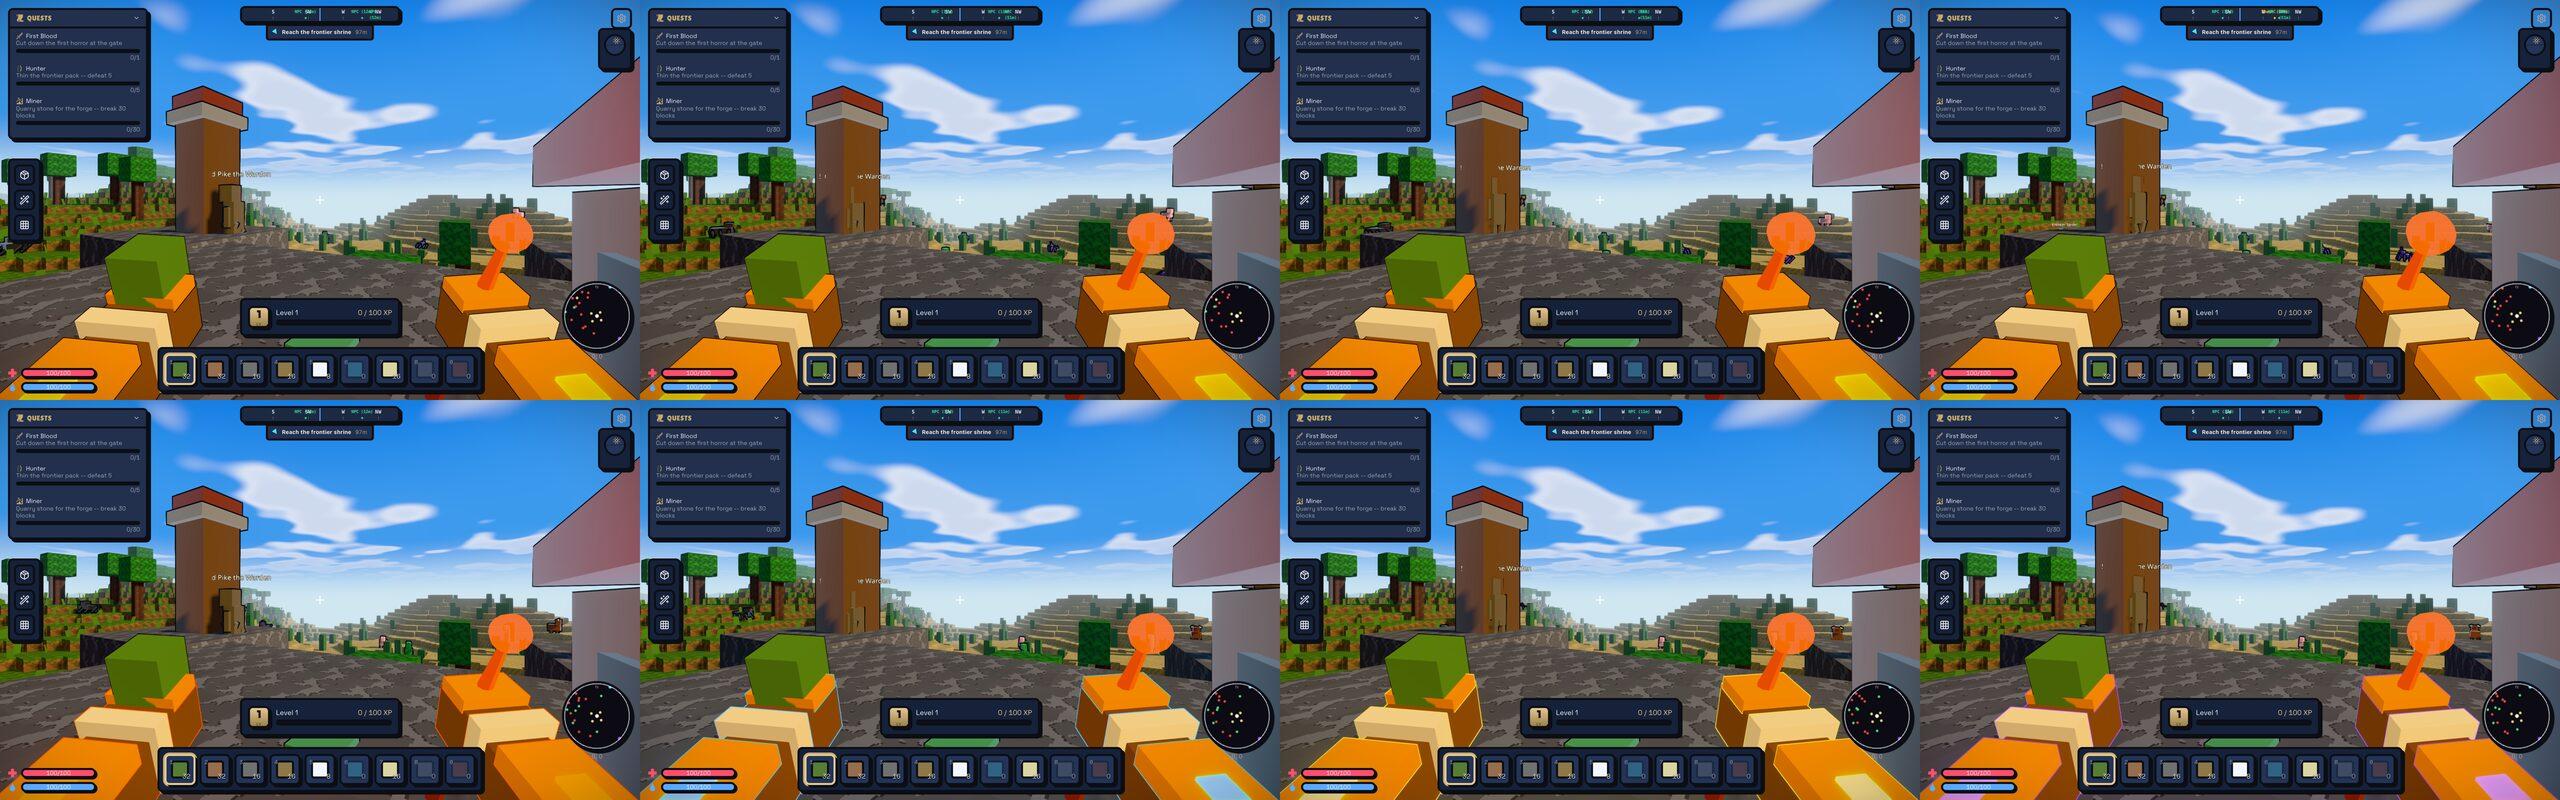
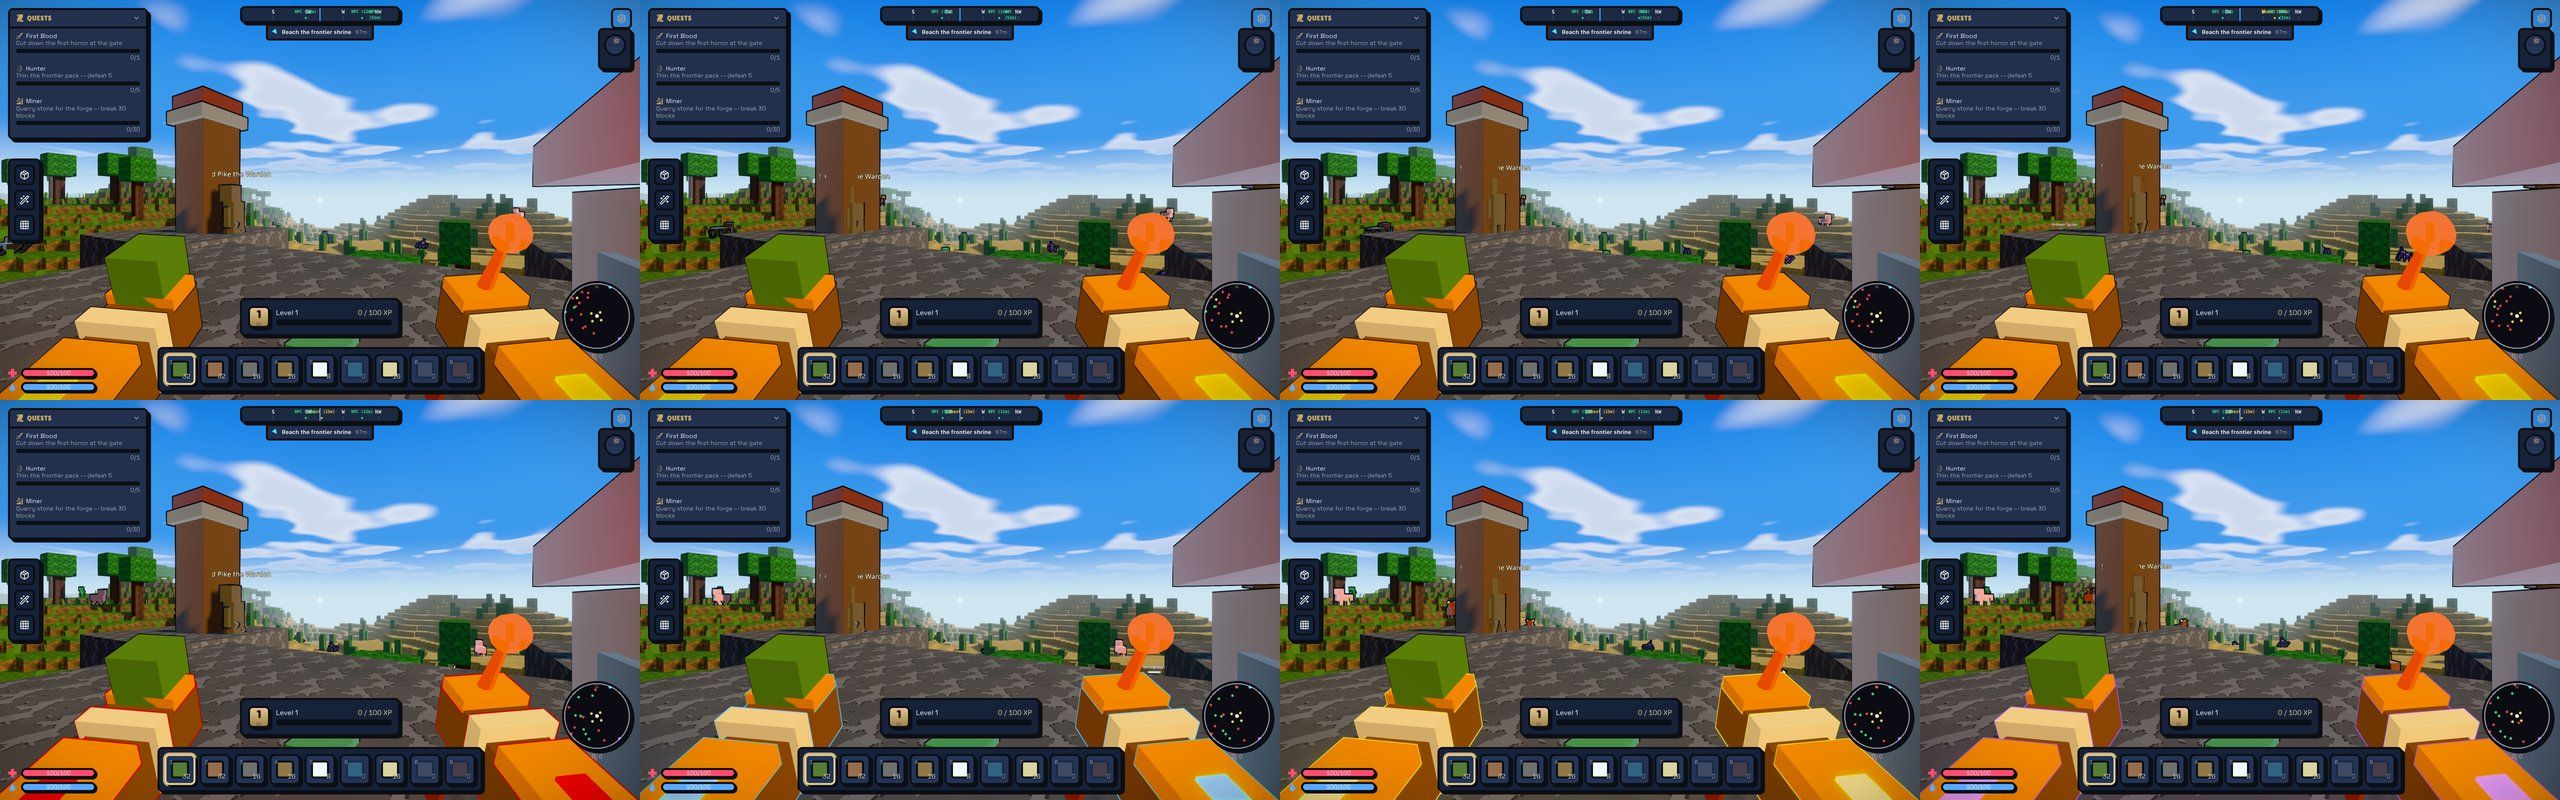
docs(evidence, decisions): the crimson fire form on the gauntlets, before and after at 0.30; item 87 with the numbers
One lookbook self-set run under the shared GPU lock (22:32Z, load 4.9, Chromium on ANGLE-Metal at 1280x800), on a
production build of 46010095. Before is 7c3cffef's frame of the dragon at 0.30 from the fix round's run (21:32Z, the
same instrument and stand; 7c3cffef..a4fef819 is docs only, so it is this branch's render before 46010095). The bull,
hawk and golem tiles of the new run match 7c3cffef's to JPEG noise (mean absolute difference 2.6 to 2.7 of 255).

gauntlet-fire-colour-before-after.jpg (new): the dragon's left and right gauntlets, orange above, crimson below.
gauntlet-form-colour-before-after.jpg and -crops.jpg: the after row is now this run's (the crops sheet at its original
geometry, the before row unchanged). Item 87 states fire's colour, why, and the numbers authored and rendered, the
hawk's core near the ember core as displayed, and the gate's new case; index.md names the frames.

diff --git a/docs/superpowers/DECISIONS.md b/docs/superpowers/DECISIONS.md
@@ -36,7 +36,8 @@ Frames: `docs/superpowers/masterpiece-2026-10/evidence/w2e-follow/` (`index.md` 
    still casts its shadow. First person is the follow placing the camera, marked by the Player's loop each frame
    (`render/followView.js`), not the drawn camera standing near the eye: a crit's shake (weight 1.6, trauma 0.8) puts
    the follow's target a median 1.5 m off the eye and, after the follow's 0.85 lerp, the camera outside 1 m on three
-   crits in four (2000 seeds), and a rule of 1 m from the eye let the boxes flash back in during fights. When another branch placed the camera (the reveal's ends, an eye pose), it is first person within 1 m of the
+   crits in four (2000 seeds), and a rule of 1 m from the eye let the boxes flash back in during fights. When another
+   branch placed the camera (the reveal's ends, an eye pose), it is first person within 1 m of the
    steady eye (`beastAvatarParts.js FIRST_PERSON_M`; the reveal leaves it in its first fifth), measured in world space,
    and the clearance is in metres: on a form's first frames the entrance draws the avatar at half scale. The eye stays
    at body + `EYE_HEIGHT_M` in every form: a per-form eye would put the dragon's 2.15 m up, inside the ceiling of a
@@ -124,19 +125,28 @@ Frames: `docs/superpowers/masterpiece-2026-10/evidence/w2e-follow/` (`index.md` 
    exact). It stands while it earns its place.
 87. **The gauntlets take the beast form's colour while it is on** (`render/viewmodel.js stepFormTint`, `FORM_TINT`,
    driven per frame by `render/playerRender.jsx`): as the beast is a dark ink body with an element rim, the gauntlets'
-   ink outlines take the form's element glow (`beastAvatarParts.js ELEMENT_COLOR`, the beast's own rim), and so does the
-   ember core in each, at the core's HDR gain, eased in by the end of the form's 0.55 s entrance and out after it, the
-   fading form keeping its colour until it has gone; the held item's outline stays ink. It answers item 80's loss: in
-   first person the beast draws nothing, and now the hands say which form is on. Frames
-   (`evidence/w2e-follow/gauntlet-form-colour-*.jpg`, 0.30): the rims read orange-red, cyan, yellow and violet round both
-   gauntlets. Two arms were shot and dropped: 0.35 of the glow on the plates read salmon for the bull and pink for the
-   golem on their ember gold (`gauntlet-plate-glow-rejected.jpg`), and the core alone shows only a sliver at rest, which
-   read for the bull and the golem and not for the hawk or the dragon. Also passed over: a beast viewmodel (claws in place
+   ink outlines take the form's colour (`FORM_TINT.colour`: the beast's own rim, `beastAvatarParts.js ELEMENT_COLOR`, for
+   the bull, the hawk and the golem), and so does the ember core in each, at the core's HDR gain, eased in by the end of
+   the form's 0.55 s entrance and out after it, the fading form keeping its colour until it has gone; the held item's
+   outline stays ink. It answers item 80's loss: in first person the beast draws nothing, and now the hands say which
+   form is on. Fire takes a crimson, `#D4142C`, on the hands only: the beast's orange `#FF6A2C` stands 24 degrees of OKLCH
+   hue and 0.04 of lightness off the plates (`#E8963A`) and 21 degrees and 0.07 off the ember core (`#FF9A2E`), and in the
+   frames its rim was a 1-2 px orange-red line on orange and its core sat in the plates' orange; the crimson stands 41
+   degrees and 0.19 under the plates and 38 degrees and 0.22 under the ember core (authored), and against the lit plate
+   as rendered (`#D26B00`) the rim moved from OKLab 0.065 off to 0.131 and the core from 0.091 to 0.133
+   (`gauntlet-fire-colour-before-after.jpg`). Frames (`evidence/w2e-follow/gauntlet-form-colour-*.jpg`, 0.30): the rims
+   read crimson, cyan, yellow and violet round both gauntlets. As displayed, the hawk's core stands 0.04 to 0.07 (OKLab) off
+   the ember core (both go yellow-white through the core's HDR gain and NEUTRAL), so its rim carries it. Two arms were shot and
+   dropped: 0.35 of the glow on the plates read salmon for the bull and pink for the golem on their ember gold
+   (`gauntlet-plate-glow-rejected.jpg`), and the core alone shows only a sliver at rest, which read for the bull and the
+   golem and not for the hawk or the dragon. Also passed over: a beast viewmodel (claws in place
    of the gauntlets: four new hand models) and the core's own light on the hands (it bleached them at 0.6 m). drei's
    Outlines writes the ink back whenever the hands re-render (an attack starting does it); the tint writes the colour
    again every frame callback, ahead of that frame's draw (not measured in a browser). Gated by
-   `tests/gates/form-gauntlet-gates.test.jsx`, with drei's real Outlines.
-   It stands while it earns its place.
+   `tests/gates/form-gauntlet-gates.test.jsx`, with drei's real Outlines, and each form's outline and core standing 0.15
+   (OKLab) off the plate as displayed at 0.30 and 0.75 (the fire rim that did not read stood 0.10 to 0.11 off, the hawk's
+   that did 0.15), fire 30 degrees of hue and 0.1 of lightness off the plates and the ember core. It stands while it
+   earns its place.
 88. **Per-frame code is gated for allocation by a young-generation heap probe** (`tests/gates/_youngGrowth.js`,
    `tests/gates/hot-path-alloc-gates.test.js`): new-space growth over runs of 5000 calls that no collection interrupted
    (`node:v8` GCProfiler), with no fixed warm-up: runs continue until the median of the last five kept runs is under

diff --git a/docs/superpowers/masterpiece-2026-10/evidence/w2e-follow/index.md b/docs/superpowers/masterpiece-2026-10/evidence/w2e-follow/index.md
@@ -19,10 +19,13 @@ whole frame unless named a crop. DECISIONS 2026-10-29 items 80-86.
 ## PR #52 fix round: the beast form's colour on the gauntlets (DECISIONS 2026-10-29 item 87)
 
 Shot on 2026-10-29 after 21:00Z by the `self` set, Chromium on ANGLE-Metal (Apple M3 Max) at 1280x800, device scale 2,
-each form at the steady eye at 0.30. Before = a production build of `ec0394ce` (no form colour); after = `7c3cffef`.
+each form at the steady eye at 0.30. Before = a production build of `ec0394ce` (no form colour); after = `7c3cffef`,
+whose dragon rim read as a thin orange-red line on the orange plates, so the after row is now the crimson fire build
+(`46010095`, shot at 22:32Z; the bull, hawk and golem tiles match `7c3cffef`'s to JPEG noise).
 
 | file | what it shows |
 |---|---|
 | `gauntlet-form-colour-before-after.jpg` | whole frames, dragon, bull, hawk and golem left to right, before above and after below: in the after row the gauntlets' outlines and the right core carry the form's colour |
-| `gauntlet-form-colour-crops.jpg` | the left gauntlet at full scale, before above and after below: ink outlines before; orange-red, cyan, yellow and violet rims after, the held block's outline still ink |
+| `gauntlet-form-colour-crops.jpg` | the left gauntlet at half scale, before above and after below: ink outlines before; crimson, cyan, yellow and violet rims after, the held block's outline still ink |
+| `gauntlet-fire-colour-before-after.jpg` | the dragon form only, left and right gauntlets, the beast's orange (`7c3cffef`) above and the crimson (`46010095`) below: the orange rim and core sit in the plates' orange; the crimson rim is a red line round both gauntlets and the core a red plate |
 | `gauntlet-plate-glow-rejected.jpg` | the right gauntlet, before above and the first after arm below (the core plus 0.35 of the glow on the plates): the plates read salmon for the bull and pink for the golem, so the plates were left out |
